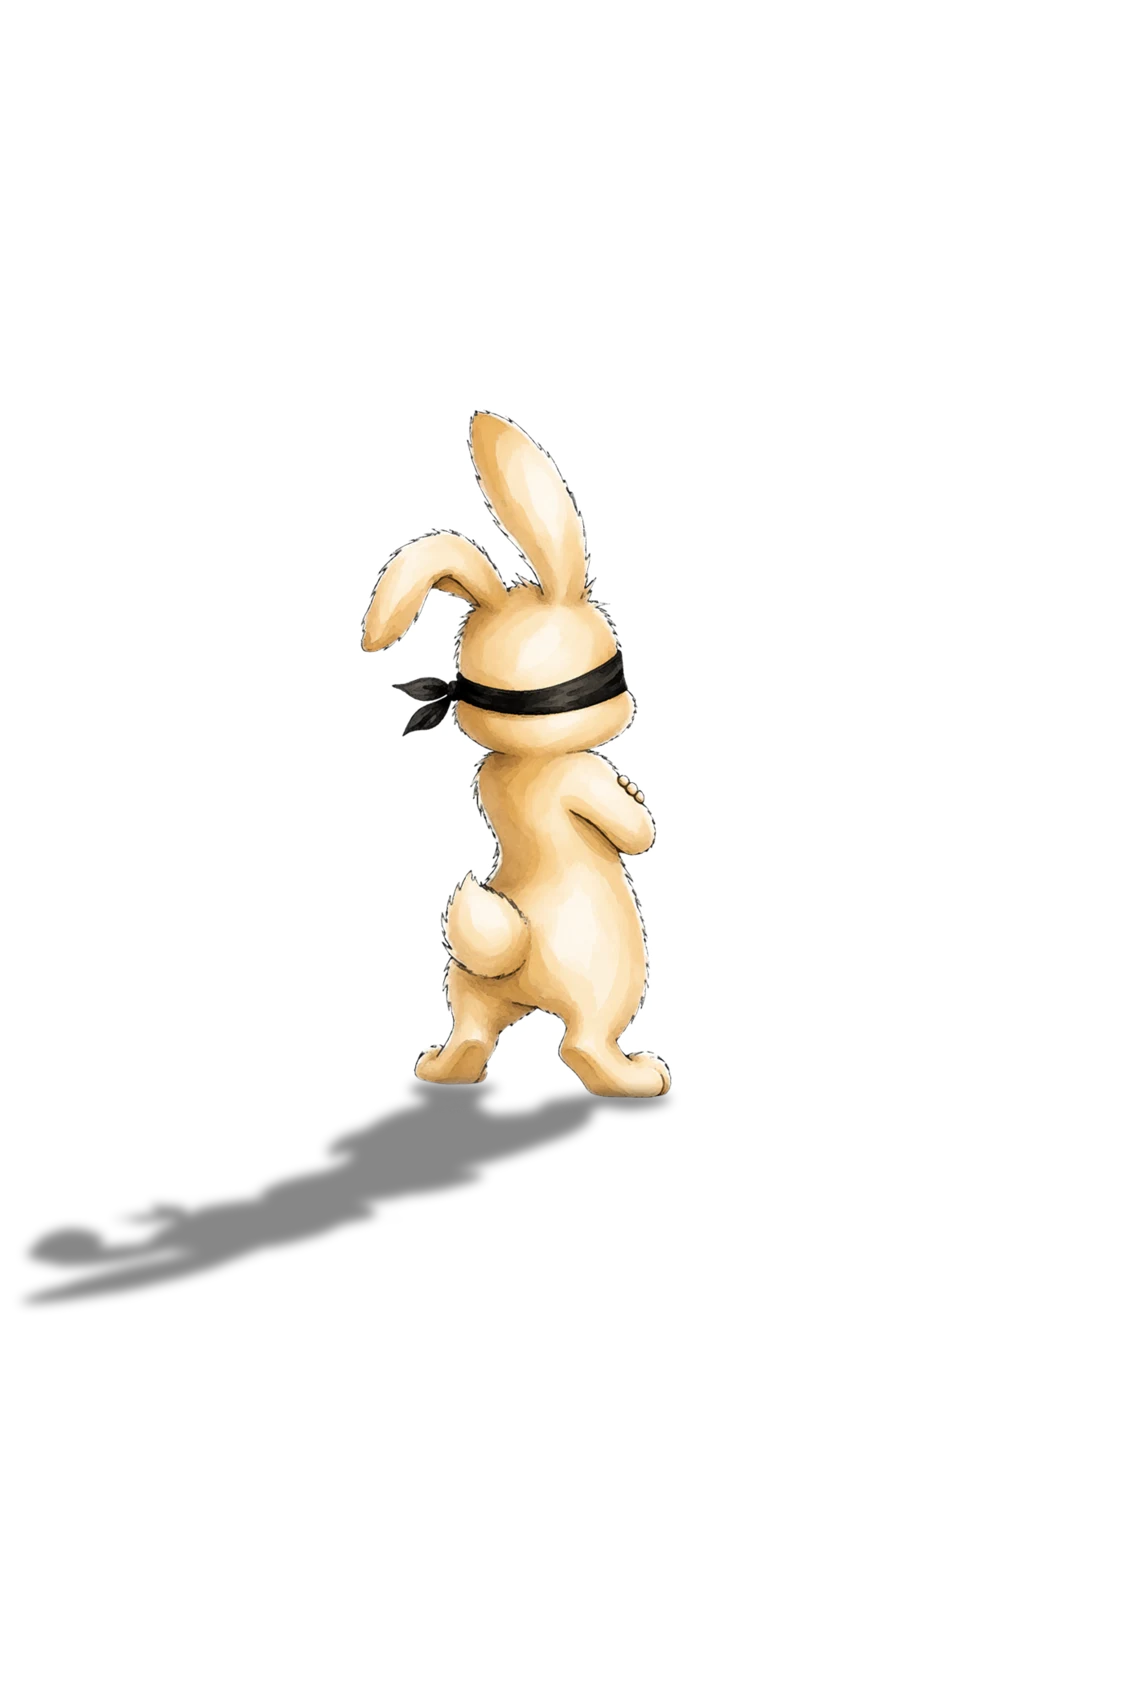
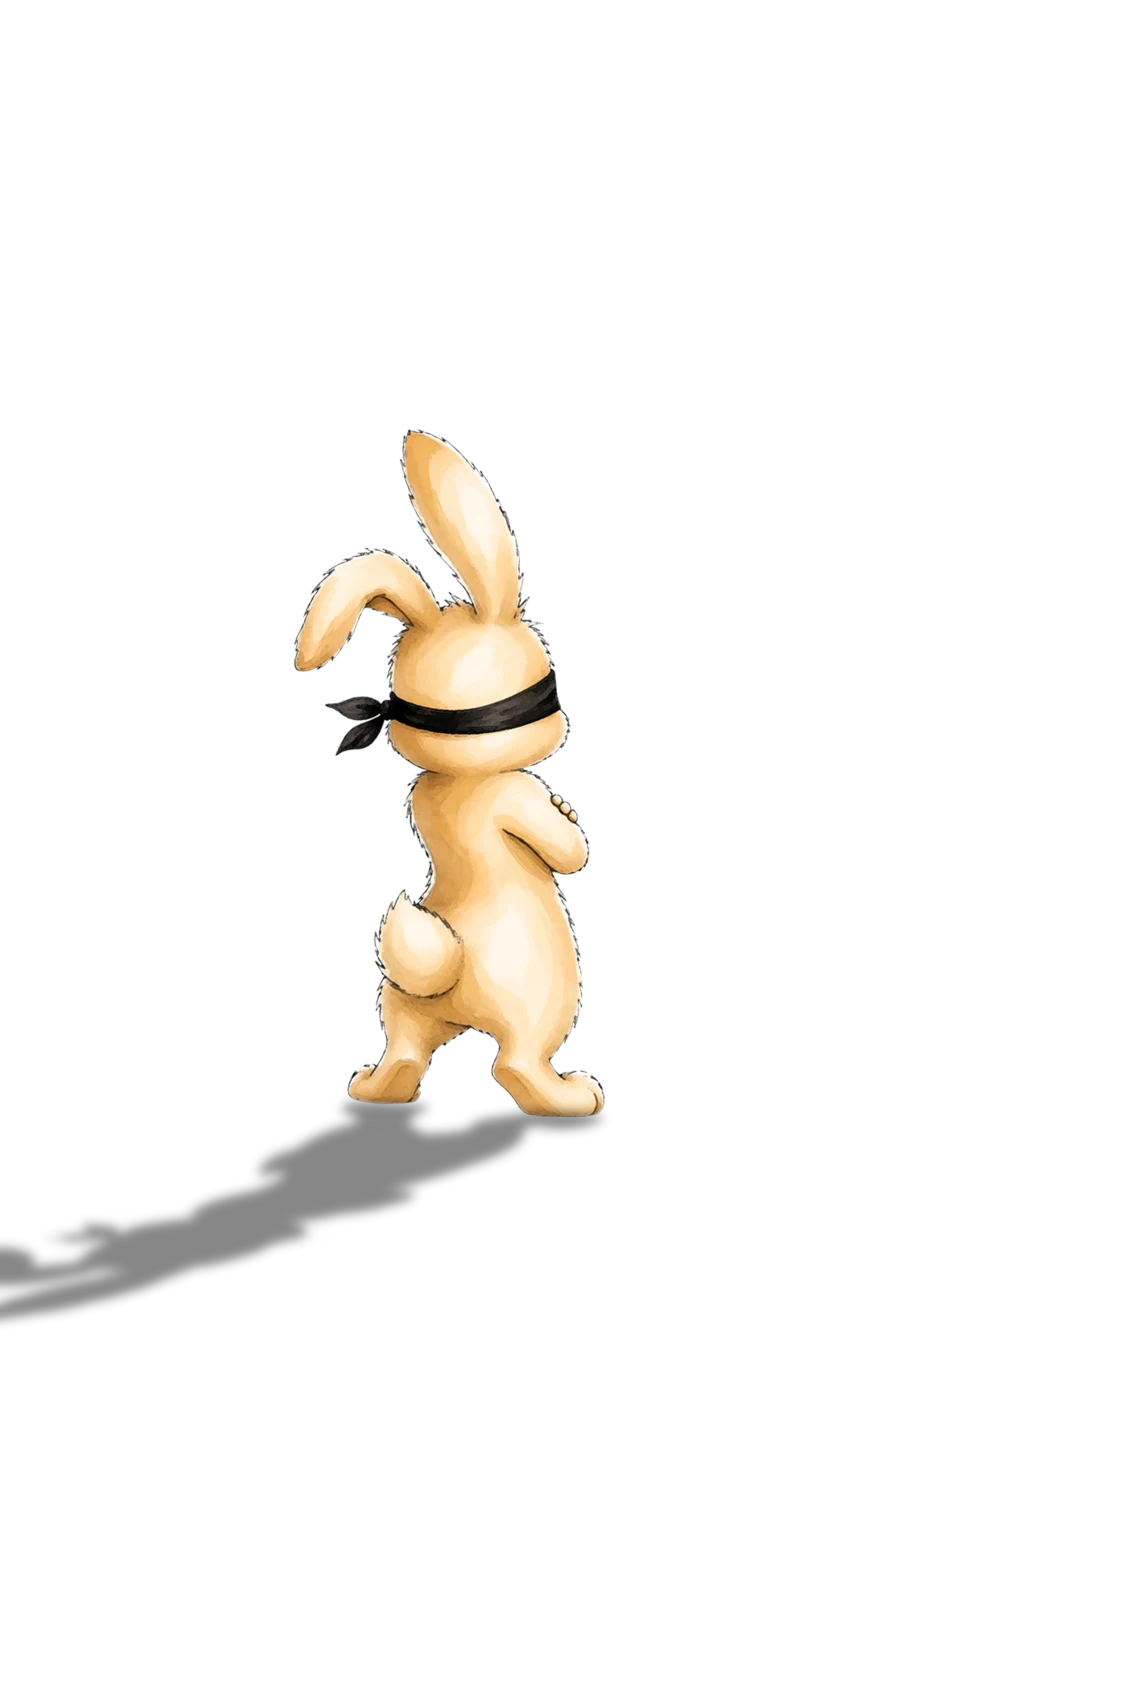
feat(scenery): bula V15, off-centre framing and retuned feet line

Changed region(s): [[0.0, 0.2175, 0.614, 0.7767]]

diff --git a/android/lib/feature/home/impl/src/main/kotlin/com/warrenbrowse/vpn/feature/home/impl/connect/SceneryBackdrop.kt b/android/lib/feature/home/impl/src/main/kotlin/com/warrenbrowse/vpn/feature/home/impl/connect/SceneryBackdrop.kt
@@ -58,7 +58,7 @@ private val CONTINUATION_BLUR_RADIUS = 28.dp
 // shadow included) slides vertically so this line always sits just above the
 // connection card: right above the card while disconnected, and never under it
 // when the card grows.
-private const val BULA_FEET_FRACTION = 1316f / 1706f
+private const val BULA_FEET_FRACTION = 1332f / 1706f
 
 // Air kept between Bula's feet and the card's top edge.
 private val FOREGROUND_CARD_GAP = 16.dp
